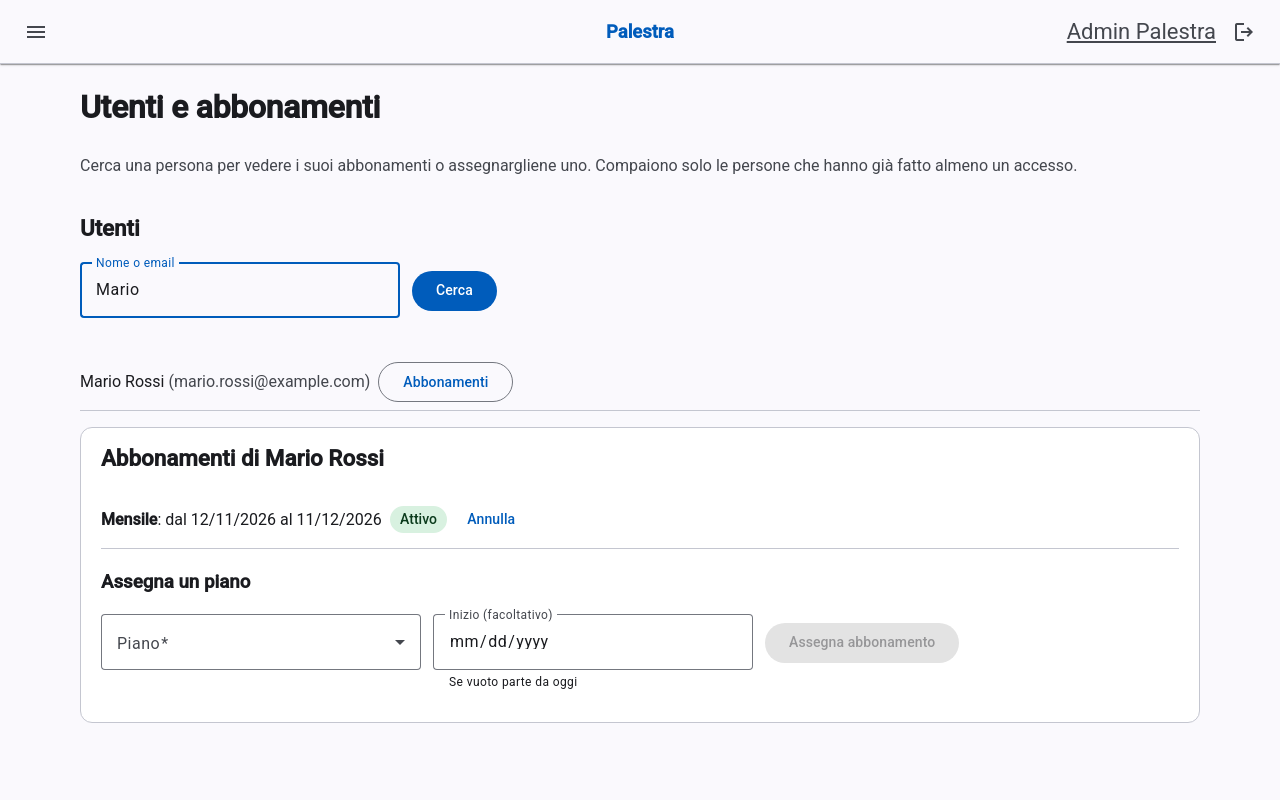
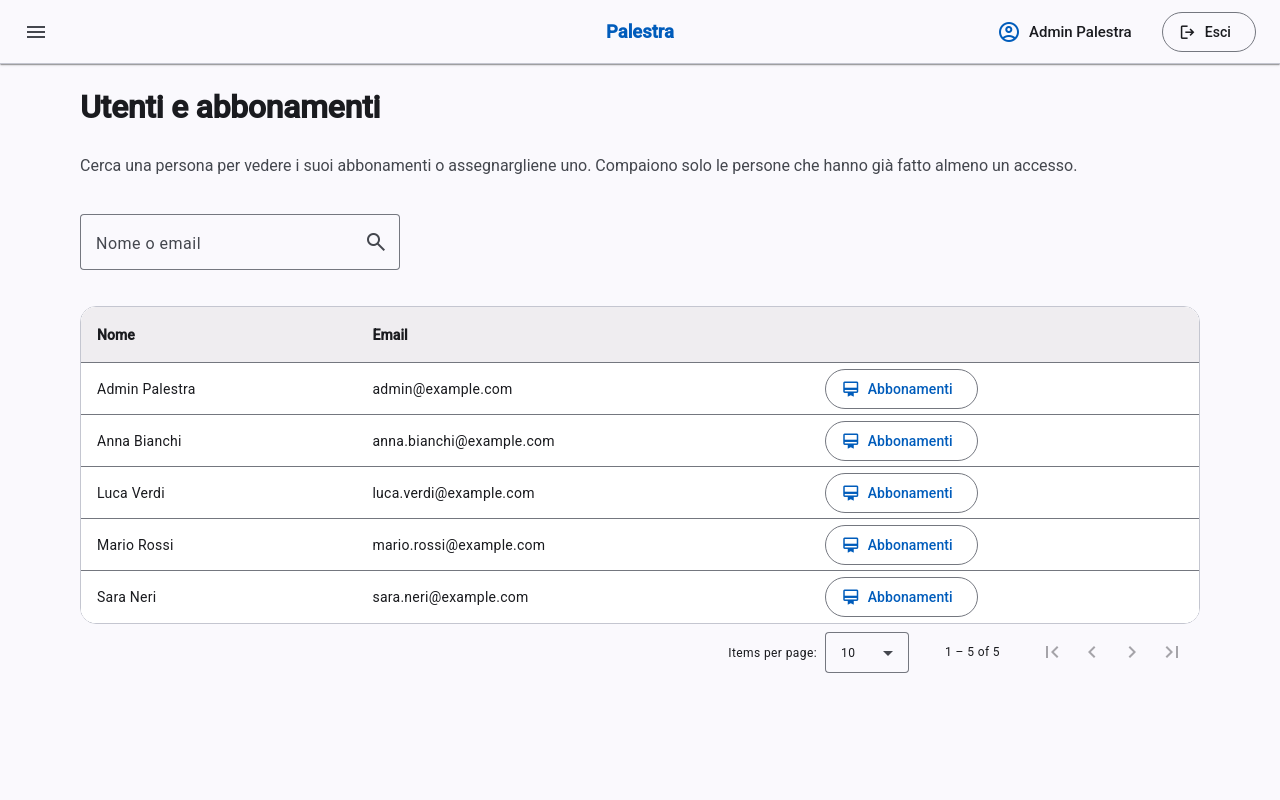
Screenshot di Utenti e abbonamenti rifatto con la tabella e nuova immagine della finestra degli abbonamenti

diff --git a/README.md b/README.md
@@ -52,6 +52,10 @@ sistema-prenotazioni/
 | **Materiali PDF di un corso (admin)** | **Il corso visto da un iscritto, con i materiali** |
 | ![Materiali PDF di un corso](docs/screenshots/admin-materiali.png) | ![Dettaglio del corso con i materiali](docs/screenshots/dettaglio-corso-materiali.png) |
 
+Dalla pagina "Utenti e abbonamenti" una finestra mostra gli abbonamenti di una persona e permette di assegnarne uno o annullarlo:
+
+![Finestra con gli abbonamenti di una persona](docs/screenshots/admin-utenti-finestra.png)
+
 La regola "un istruttore non può essere anche studente dello stesso corso": il server la fa rispettare e l'interfaccia
 mostra il motivo.
 
